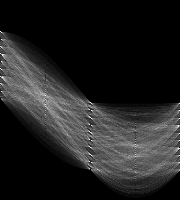
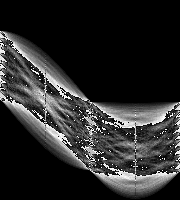
Small tweaks to hough

diff --git a/img_processing/img_action.c b/img_processing/img_action.c
@@ -33,7 +33,9 @@ void ErrorMessage()
            "                   -b/--blur\n"
            "                   -t/--threshold\n"
            "                   -s/--sobel\n"
-           "                   -i/--inverse\n");
+           "                   -i/--inverse\n"
+           "                   -bt/--blur>threshold\n"
+           "                   -bts/--blur>threshold>sobel\n");
 }
 
 SDL_Surface* IMGA_Erosion(SDL_Surface* input){
@@ -135,7 +137,7 @@ int main(int argc, char** argv)
         }
 
         if (argc != 5 && argc != 6)
-            errx(EXIT_FAILURE, "-t/--threshold : apply adaptive thresholding (path_in folder_path_out [threshold] [m]) (m (optional) : apply thresholds from 0 to n)\n");
+            errx(EXIT_FAILURE, "-t/--threshold : apply adaptive thresholding (path_in path_out [threshold] [m]) (m (optional) : apply thresholds from 0 to n)\n");
 
 
         char* endptr;
@@ -157,7 +159,7 @@ int main(int argc, char** argv)
     else if (CompareStrings(argv[1], "-s") || CompareStrings(argv[1], "--sobel"))
     {
         if (argc != 4)
-            errx(EXIT_FAILURE, "-s/--sobel : apply sobel edge detection (path_in folder_path_out )\n");
+            errx(EXIT_FAILURE, "-s/--sobel : apply sobel edge detection (path_in path_out )\n");
 
         IMG_SavePNG(sobel_gradient(IMG_Load(path_in)), path_out);
         printf("Successfully saved the new image at path %s\n", path_out);
@@ -165,7 +167,7 @@ int main(int argc, char** argv)
     else if (CompareStrings(argv[1], "-bts") || CompareStrings(argv[1], "--blur>threshold>sobel"))
     {
         if (argc != 4)
-            errx(EXIT_FAILURE, "-s/--sobel : apply blur>threshold>sobel (path_in folder_path_out)\n");
+            errx(EXIT_FAILURE, "-bts/--blur>threshold>sobel : apply blur>threshold>sobel (path_in path_out)\n");
 
         IMG_SavePNG(sobel_gradient(IMGA_Erosion(IMGA_ApplyThreshold(IMGA_GaussianBlur(IMG_Load(path_in), 11, 1.5), 0))), path_out);
         printf("Successfully saved the new image at path %s\n", path_out);
@@ -173,7 +175,7 @@ int main(int argc, char** argv)
     else if (CompareStrings(argv[1], "-bt") || CompareStrings(argv[1], "--blur>threshold"))
     {
         if (argc != 4)
-            errx(EXIT_FAILURE, "-bt/--blur>threshold : apply blur>threshold (path_in folder_path_out)\n");
+            errx(EXIT_FAILURE, "-bt/--blur>threshold : apply blur>threshold (path_in path_out)\n");
 
         IMG_SavePNG(IMGA_Erosion(IMGA_ApplyThreshold(IMGA_GaussianBlur(IMG_Load(path_in), 11, 1.5), 0)), path_out);
         printf("Successfully saved the new image at path %s\n", path_out);

diff --git a/hough/hough.c b/hough/hough.c
@@ -168,11 +168,12 @@ SDL_Surface* HoughLine(SDL_Surface* img, ListLine* line_list)
 			}
 		}
 
-		if (val < line_threshold)
+		if (val < line_threshold || maxTheta == 179)
 			continue;
 
 		//drawing the lines on a surface
-		double rho = maxRho - diag_len/2;
+		double rho = rhos[maxRho];
+		//double rho = maxRho - diag_len/2;
 
 		NodeLine *nd = malloc(sizeof(NodeLine));
 		
@@ -285,6 +286,45 @@ void Prune(ListLine* l)
     }
 }
 
+SDL_Surface* ListToSurface(ListLine* list, int width, int height)
+{
+	SDL_Surface* newS = SDL_CreateRGBSurface(0, width, height, 32,0,0,0,0);
+	SDL_LockSurface(newS);
+	NodeLine* curr = list->head;
+
+	int diag_len = sqrt(width * width + height * height);
+
+	double cos_t[180];
+	double sin_t[180];
+	for (int i = -90; i < 90; i++)
+	{
+		cos_t[i + 90] = cos(i * M_PI / 180.0);
+		sin_t[i + 90] = sin(i * M_PI / 180.0);
+	}
+
+	while (curr)
+	{
+		double c = cos_t[curr->theta];
+		double s = sin_t[curr->theta];
+
+		int x0 = curr->rho * c;
+		int y0 = curr->rho * s;
+		
+		int x1 = x0 - diag_len * s;
+		int y1 = y0 + diag_len * c;
+
+		int x2 = x0 + diag_len * s;
+		int y2 = y0 - diag_len * c;
+
+		MyDrawLine(newS, x1, y1, x2, y2);
+
+		curr = curr->next;
+	}
+
+	SDL_UnlockSurface(newS);
+	return newS;
+}
+
 int main(int argc, char** argv){
 	if (argc != 3)
 		errx(1,"first param : path_in\nsecond param : path_out\n");
@@ -292,13 +332,12 @@ int main(int argc, char** argv){
 	ListLine list = { head : NULL };
 
 	SDL_Surface* output = HoughLine(input, &list);
-	IMG_SavePNG(output, argv[2]);
+	Prune(&list);
+	IMG_SavePNG(ListToSurface(&list, output->w, output->h), argv[2]);
 	SDL_FreeSurface(input);
 	SDL_FreeSurface(output);
 	
-	printf("\n\n");
-	printList(&list);
-	Prune(&list);
+	printf("\n\nAfter prune: ");
 	printList(&list);
 	
 	return 0;
